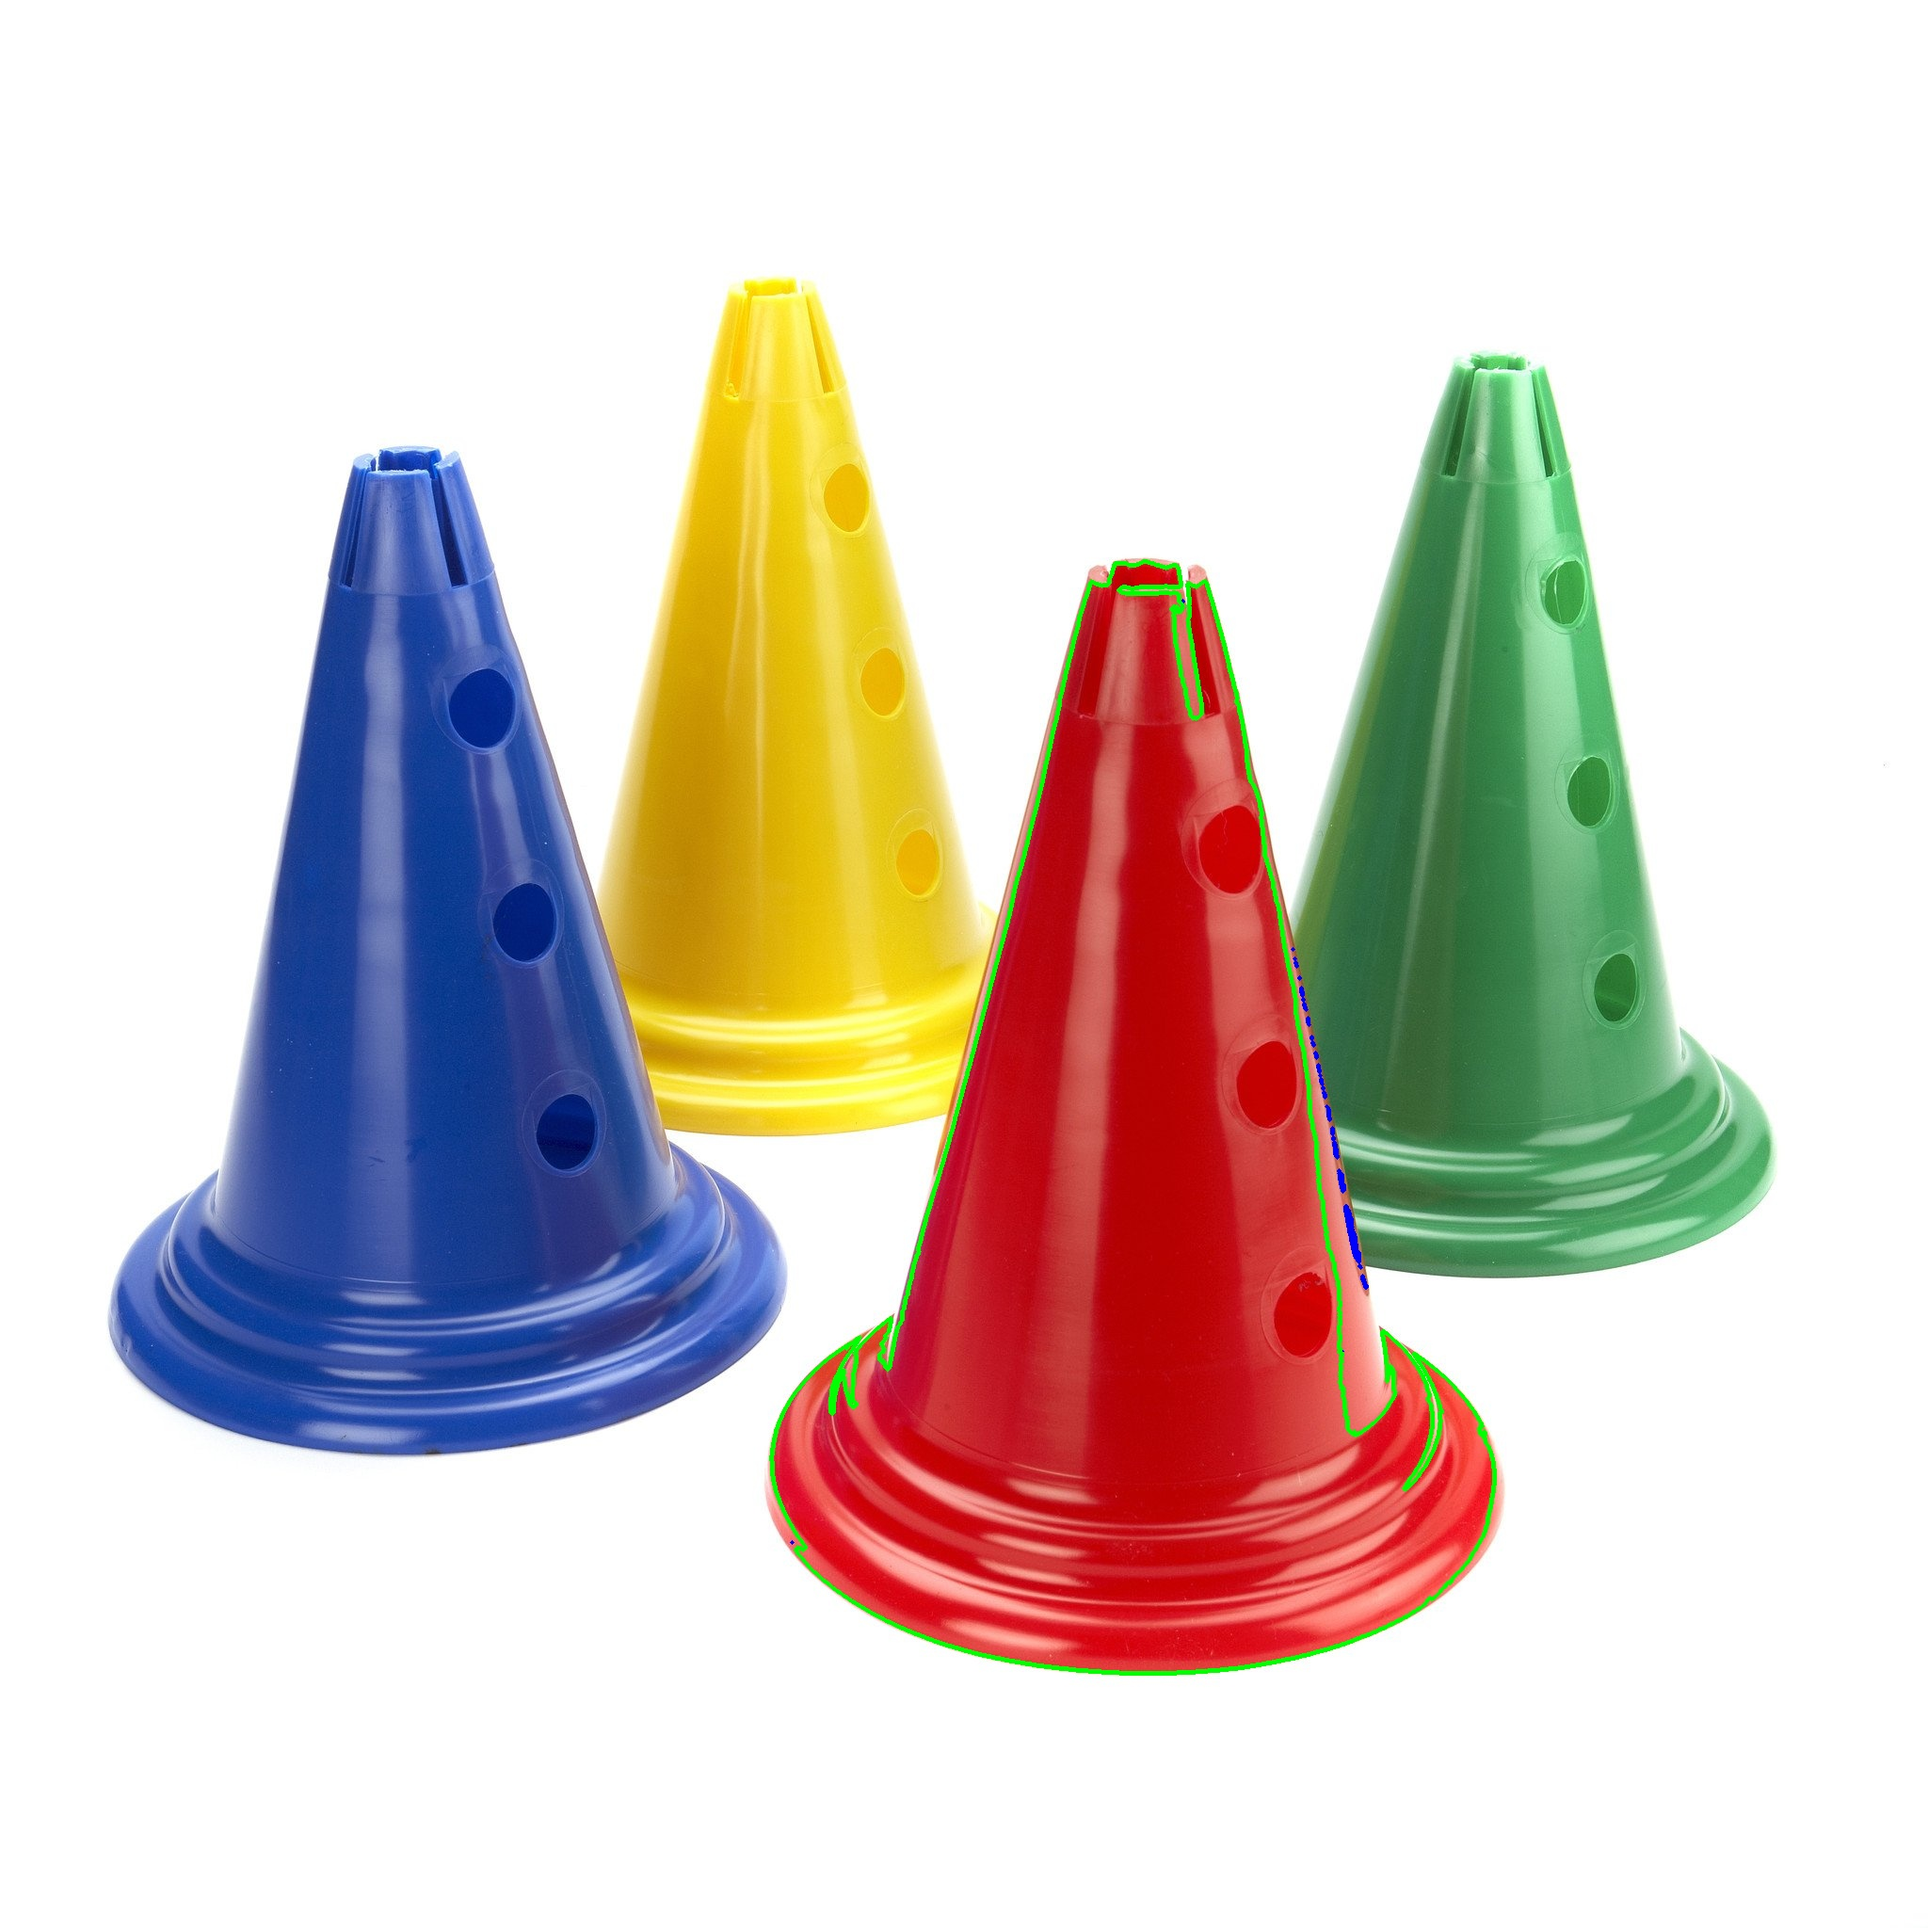
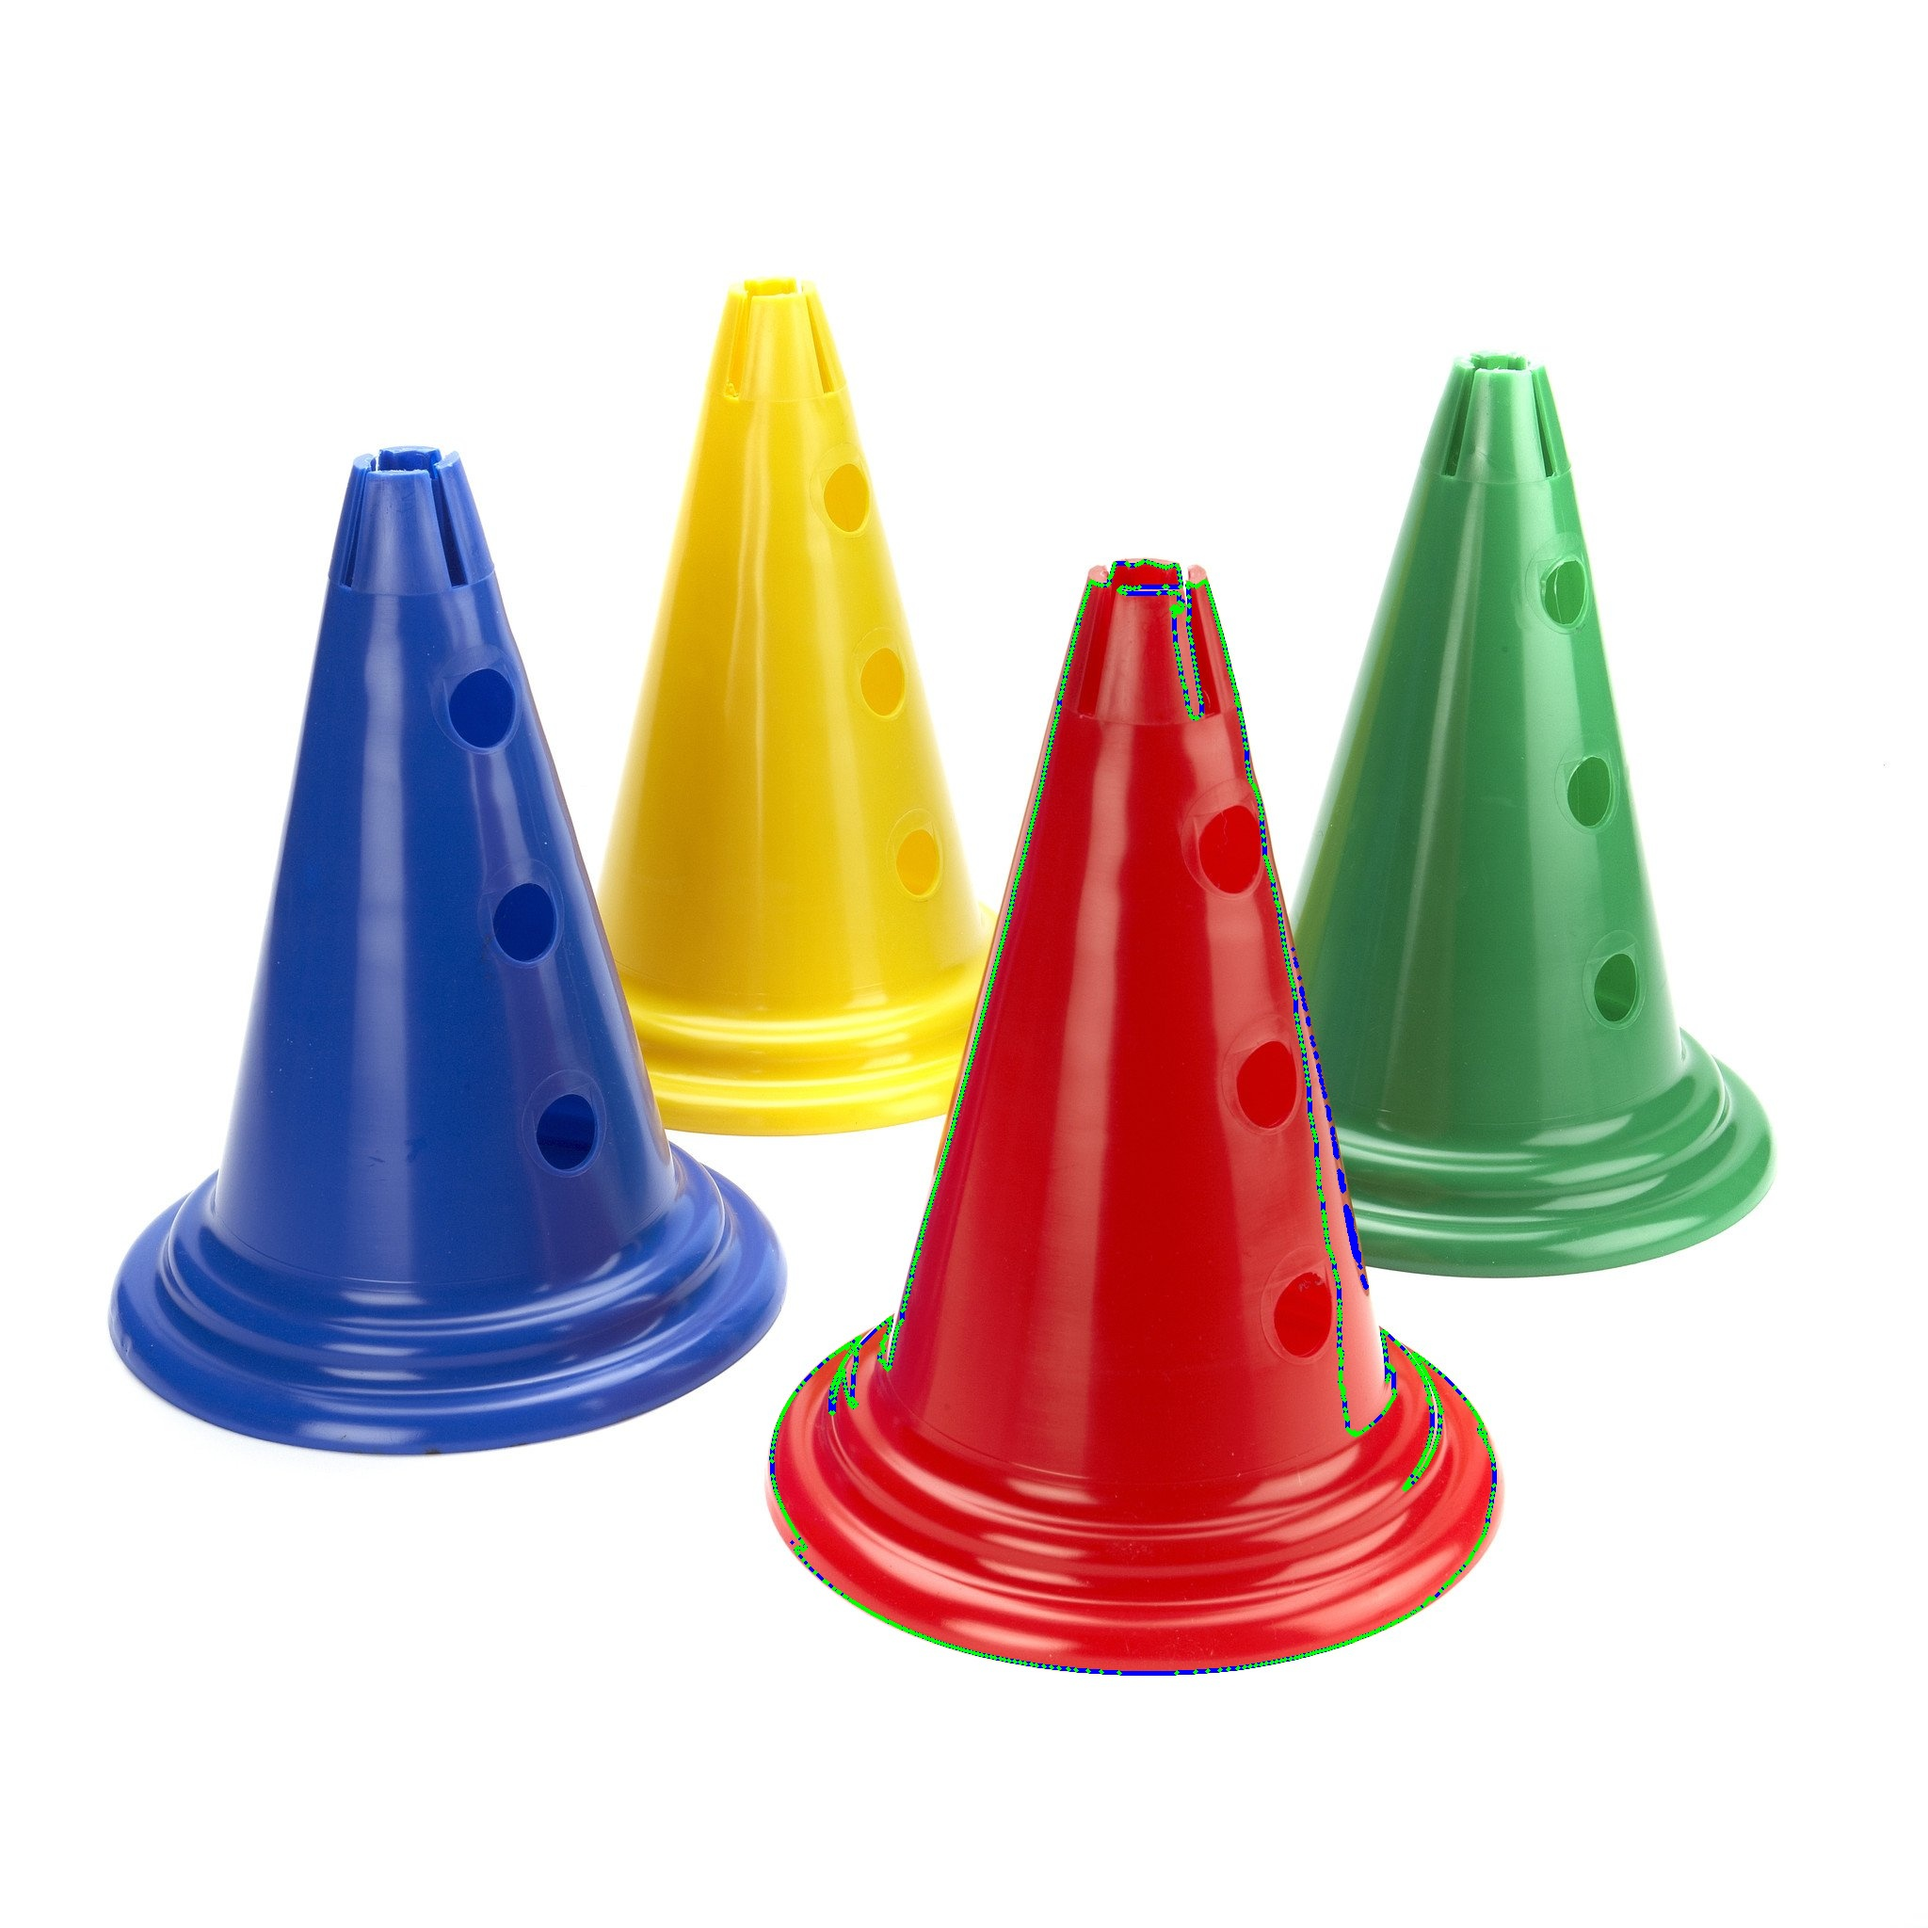
Draws a box around the largest item of a certain colour, improved documentation

diff --git a/MachineVision/findColour.py b/MachineVision/findColour.py
@@ -2,8 +2,11 @@ import cv2
 import numpy as np
 
 
-def findColour(filename, colour):
-    """Function that takes path of an image and outputs a new file highlighting said colour."""
+def findColour(filename, colour) -> object:
+    """Function that takes path of an image and outputs a new file highlighting said colour.
+    :param filename: name of image you want to process
+    :param colour: the colour you want to extract (green/red)
+    """
 
     image = cv2.imread(filename, 1)  # gcolour
     blurred_image = cv2.GaussianBlur(image, (5, 5), 0)  # blurred to remove noise
@@ -12,8 +15,8 @@ def findColour(filename, colour):
     # RED COLOUR BOUNDARIES
     red_lower = np.array([0, 150, 0])  # pair of least red and most red on the hsv map
     red_upper = np.array([7, 255, 359])
-    wrap_around_lower = np.array([170, 150, 0])  # still need tweaking, doesnt pick up very light reds
-    wrap_around_upper = np.array([180, 255, 359])
+    wrap_around_lower = np.array([170, 150, 0])    # still need tweaking, doesnt pick up very light reds
+    wrap_around_upper = np.array([180, 255, 359])  # Could draw box around item to remedy this?
 
     # GREEN COLOUR BOUNDARIES
     green_lower = np.array([40, 60, 60])
@@ -23,21 +26,29 @@ def findColour(filename, colour):
         mask = cv2.inRange(hsv, red_lower, red_upper)
         additional_mask = cv2.inRange(hsv, wrap_around_lower, wrap_around_upper)
         mask += additional_mask
-        contours, _ = cv2.findContours(mask, cv2.RETR_EXTERNAL,
-                                       cv2.CHAIN_APPROX_NONE)  # finds the edges between white and black for the mask
+        contours, _ = cv2.findContours(mask, cv2.RETR_EXTERNAL,  # finds the edges between white and black for the mask
+                                       cv2.CHAIN_APPROX_SIMPLE)  # contours returns an array with every edge AFAIK
         contoured = cv2.drawContours(image, contours, -1, (255, 0, 0), 3)  # draws the edges
         cv2.imwrite('./Output/' + colour + '1.jpg', contoured)
 
     if colour == "green":
         mask = cv2.inRange(hsv, green_lower, green_upper)
         contours, _ = cv2.findContours(mask, cv2.RETR_EXTERNAL,
-                                       cv2.CHAIN_APPROX_NONE)
+                                       cv2.CHAIN_APPROX_SIMPLE)
         contoured = cv2.drawContours(image, contours, -1, (255, 0, 0), 3)
         cv2.imwrite('./Output/' + colour + '1.jpg', contoured)
 
     output = cv2.bitwise_and(image, image, mask=mask)  # highlights our mask onto the original image
-
     cv2.imwrite('./Output/' + colour + '2.jpg', output)
+
+    if len(contours) != 0:  # check if there's anything in contours
+        cv2.drawContours(output, contours, -1, 255, 3)  # draws contours in blue
+
+        c = max(contours, key=cv2.contourArea)  # finds contour with largest area
+
+        x, y, w, h = cv2.boundingRect(c)
+        cv2.rectangle(output, (x, y), (x + w, y + h), (0, 255, 0), 2)  # draw rectangle around largest cone
+        cv2.imwrite('./Output/' + colour + 'LargestArea.jpg', output)
 
     for contour in contours:
         area = cv2.contourArea(
@@ -49,4 +60,4 @@ def findColour(filename, colour):
 
 
 if __name__ == "__main__":
-    findColour("./Assets/test2.jpg", "green")
+    findColour("./Assets/test3.jpg", "red")
